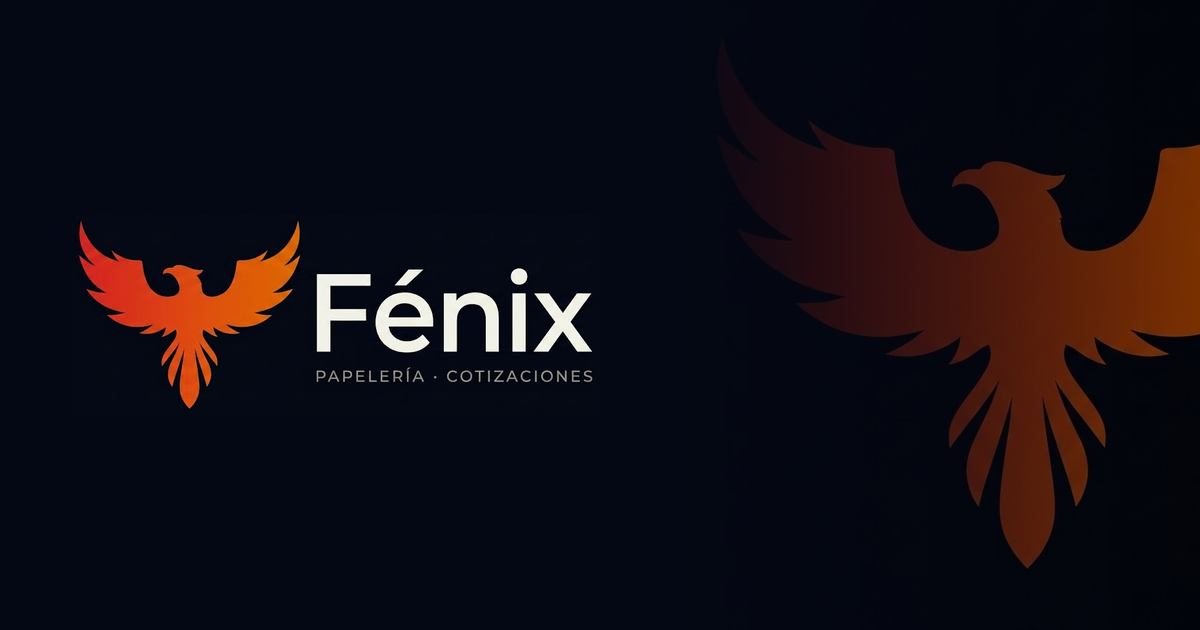
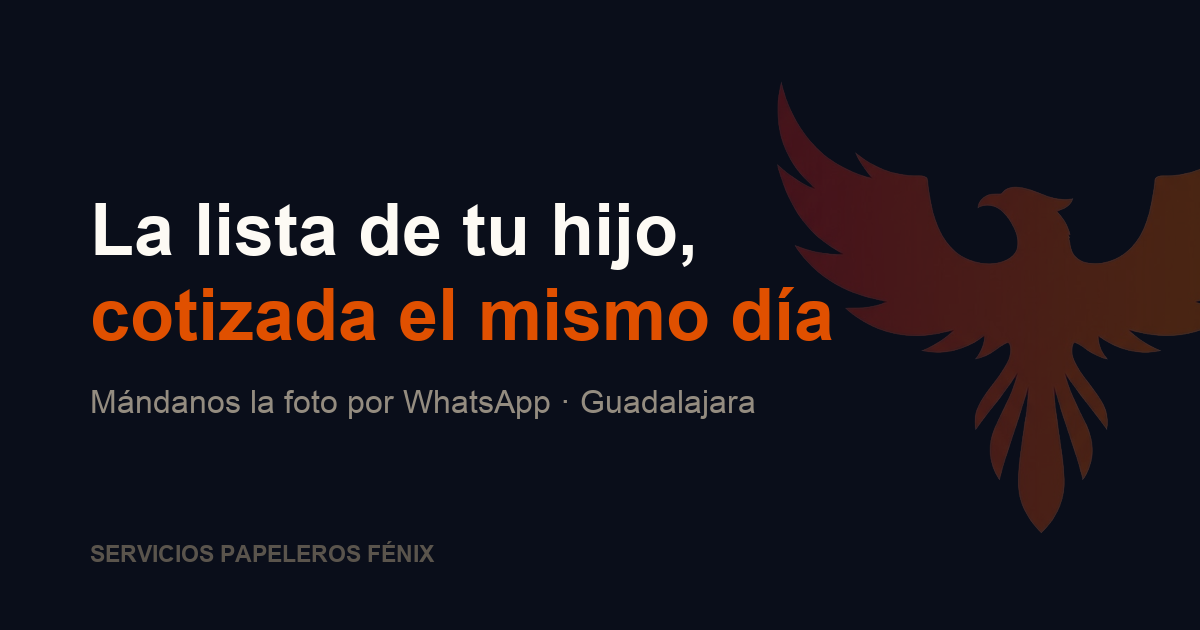
fix(fenix): el enlace compartido llegaba sin portada y describiendo la herramienta
Sin `metadataBase`, Next resuelve las imágenes de Open Graph contra
http://localhost:3000 — así se estaba sirviendo en producción, o sea que
WhatsApp y Facebook no podían bajar la portada. El build lo advierte, y es una
advertencia fácil de pasar por alto porque el sitio se ve perfecto igual: el
defecto sólo existe en el HTML que nadie mira.

Además el título y la descripción eran los de la app ("El asistente de Servicios
Papeleros Fénix — cotizaciones y documentos"). Quien comparte este link es una
mamá, no alguien buscando software, así que la portada ahora se anuncia como
NEGOCIO y el layout raíz sigue describiendo la herramienta.

La tarjeta anterior decía "Fénix · Papelería · Cotizaciones": correcta de marca
y muda de mensaje. Una tarjeta compartida es un anuncio con un renglón de
atención — el que decide si abre el link — así que ahora lleva la promesa. Va en
oscuro y no en el papel de la portada porque una miniatura clara se desvanece
sobre el fondo de WhatsApp.

Verificado con el User-Agent de cada rastreador (facebookexternalhit, WhatsApp,
Twitterbot): las cuatro etiquetas llegan con URL absoluta, y la imagen baja 200
image/png 1200x630, proporción 1.90. Y en la superficie real: pegué el link en
un composer de WhatsApp SIN enviarlo y la vista previa se pintó con título,
descripción e imagen.

Changed region(s): [[0.0617, 0.1508, 1.0, 0.9048], [0.0617, 0.8444, 0.37, 0.9048], [0.8017, 0.3317, 0.8942, 0.4222]]

diff --git a/apps/fenix/web/app/page.tsx b/apps/fenix/web/app/page.tsx
@@ -1,8 +1,36 @@
+import type { Metadata } from 'next';
 import Image from 'next/image';
 import Link from 'next/link';
 import './landing.css';
 
 const WHATSAPP = '5213338582967';
+
+const TITULO = 'La lista de tu hijo, cotizada el mismo día';
+const RESUMEN =
+  'Mándanos la foto de la lista escolar por WhatsApp y te regresamos el ' +
+  'presupuesto con el descuento de temporada. Papelería en San Juan Bosco, Guadalajara.';
+
+// La portada se anuncia como NEGOCIO; el layout raíz describe la herramienta.
+// Quien comparte este link por WhatsApp es una mamá, no alguien buscando software.
+export const metadata: Metadata = {
+  title: 'Servicios Papeleros Fénix — cotizamos tu lista escolar',
+  description: RESUMEN,
+  openGraph: {
+    type: 'website',
+    locale: 'es_MX',
+    url: 'https://www.serviciosfenix.com.mx',
+    siteName: 'Servicios Papeleros Fénix',
+    title: TITULO,
+    description: RESUMEN,
+    images: [{ url: '/branding/og-image.png', width: 1200, height: 630, alt: TITULO }],
+  },
+  twitter: {
+    card: 'summary_large_image',
+    title: TITULO,
+    description: RESUMEN,
+    images: ['/branding/twitter-card.png'],
+  },
+};
 
 export default function Landing() {
   return (

diff --git a/apps/fenix/web/app/layout.tsx b/apps/fenix/web/app/layout.tsx
@@ -4,6 +4,11 @@ import 'fi-glass/glass-chat.css';
 import './globals.css';
 
 export const metadata: Metadata = {
+  // Sin esto, Next resuelve las imágenes de Open Graph contra
+  // http://localhost:3000 y el enlace compartido llega SIN portada — WhatsApp
+  // y Facebook no pueden bajar la imagen. El build lo advierte, y la advertencia
+  // es fácil de pasar por alto porque el sitio se ve perfecto igual.
+  metadataBase: new URL('https://www.serviciosfenix.com.mx'),
   title: 'Fénix',
   description: 'El asistente de Servicios Papeleros Fénix — cotizaciones y documentos.',
   icons: {

diff --git a/apps/fenix/web/public/branding/tarjeta_social.py b/apps/fenix/web/public/branding/tarjeta_social.py
@@ -1,0 +1,78 @@
+"""Genera la tarjeta que se ve cuando alguien comparte el sitio por WhatsApp.
+
+La anterior sólo decía "Fénix · Papelería · Cotizaciones": correcta de marca y
+muda de mensaje. Una tarjeta compartida es un anuncio con un solo renglón de
+atención — el que decide si la mamá abre el link o no — así que lleva la
+promesa, no el rubro.
+
+Va en oscuro (no en el papel de la portada) porque una miniatura clara sobre el
+fondo de WhatsApp se desvanece; el contraste es lo que la hace visible en una
+lista de chats.
+
+Correr desde este directorio:  python3 tarjeta_social.py
+"""
+
+from pathlib import Path
+
+from PIL import Image, ImageDraw, ImageFont
+
+AQUI = Path(__file__).parent
+FONDO = (10, 14, 26)
+PAPEL = (253, 250, 244)
+FUEGO = (224, 80, 0)
+TENUE = (148, 140, 128)
+
+NEGRITA = "/System/Library/Fonts/Supplemental/Arial Bold.ttf"
+NORMAL = "/System/Library/Fonts/Supplemental/Arial.ttf"
+
+
+def tipo(ruta: str, tam: int) -> ImageFont.FreeTypeFont:
+    return ImageFont.truetype(ruta, tam)
+
+
+def componer(ancho: int, alto: int, destino: str) -> None:
+    im = Image.new("RGB", (ancho, alto), FONDO)
+    d = ImageDraw.Draw(im)
+
+    # El ave, grande y sangrada a la derecha: da marca sin competir con el texto.
+    ave = Image.open(AQUI / "emblem-transparente.png").convert("RGBA")
+    lado = int(alto * 1.15)
+    ave = ave.resize((lado, lado), Image.Resampling.LANCZOS)
+    capa = Image.new("RGBA", im.size, (0, 0, 0, 0))
+    capa.paste(ave, (ancho - int(lado * 0.72), int(alto * 0.5 - lado * 0.5)), ave)
+    # Bajada de opacidad: es fondo, no protagonista.
+    capa.putalpha(capa.getchannel("A").point(lambda a: int(a * 0.30)))
+    im = Image.alpha_composite(im.convert("RGBA"), capa).convert("RGB")
+    d = ImageDraw.Draw(im)
+
+    x = int(ancho * 0.075)
+    y = int(alto * 0.30)
+
+    # La promesa, partida donde cae el acento de color.
+    d.text((x, y), "La lista de tu hijo,", font=tipo(NEGRITA, int(alto * 0.115)), fill=PAPEL)
+    y += int(alto * 0.135)
+    d.text((x, y), "cotizada el mismo día", font=tipo(NEGRITA, int(alto * 0.115)), fill=FUEGO)
+    y += int(alto * 0.175)
+
+    d.text(
+        (x, y),
+        "Mándanos la foto por WhatsApp · Guadalajara",
+        font=tipo(NORMAL, int(alto * 0.052)),
+        fill=TENUE,
+    )
+
+    # La firma abajo, chica: quién lo dice.
+    d.text(
+        (x, int(alto * 0.86)),
+        "SERVICIOS PAPELEROS FÉNIX",
+        font=tipo(NEGRITA, int(alto * 0.038)),
+        fill=(90, 84, 76),
+    )
+
+    im.save(AQUI / destino, quality=92)
+    print(f"  {destino}  {im.size}")
+
+
+if __name__ == "__main__":
+    componer(1200, 630, "og-image.png")
+    componer(1200, 600, "twitter-card.png")
